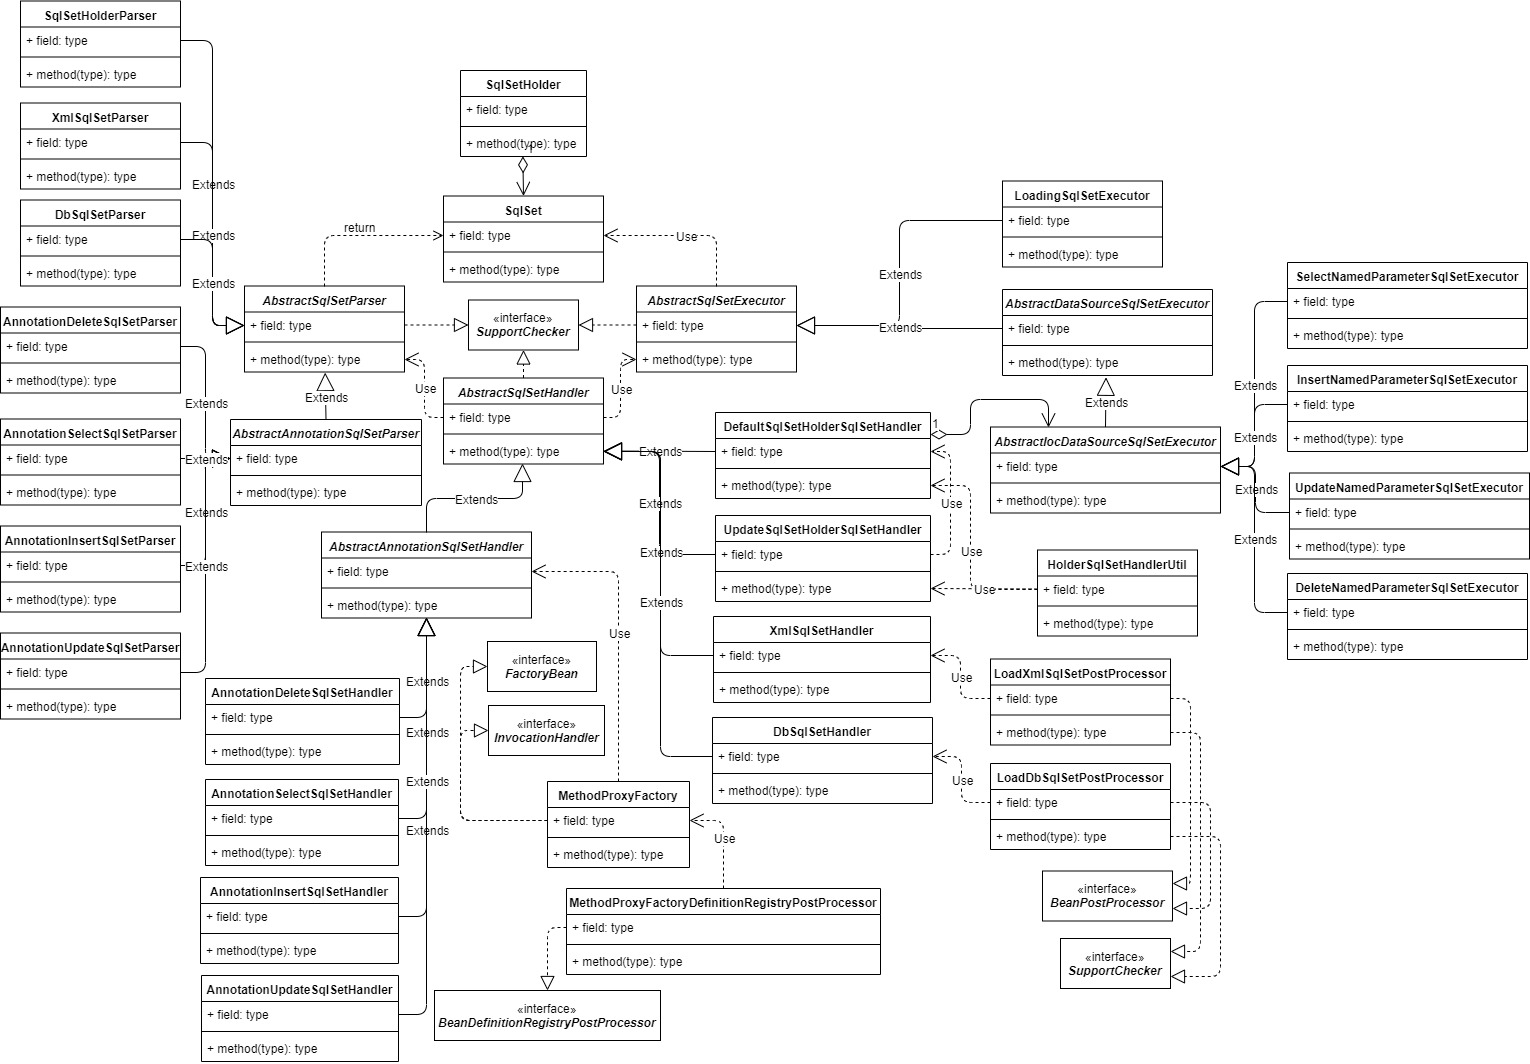
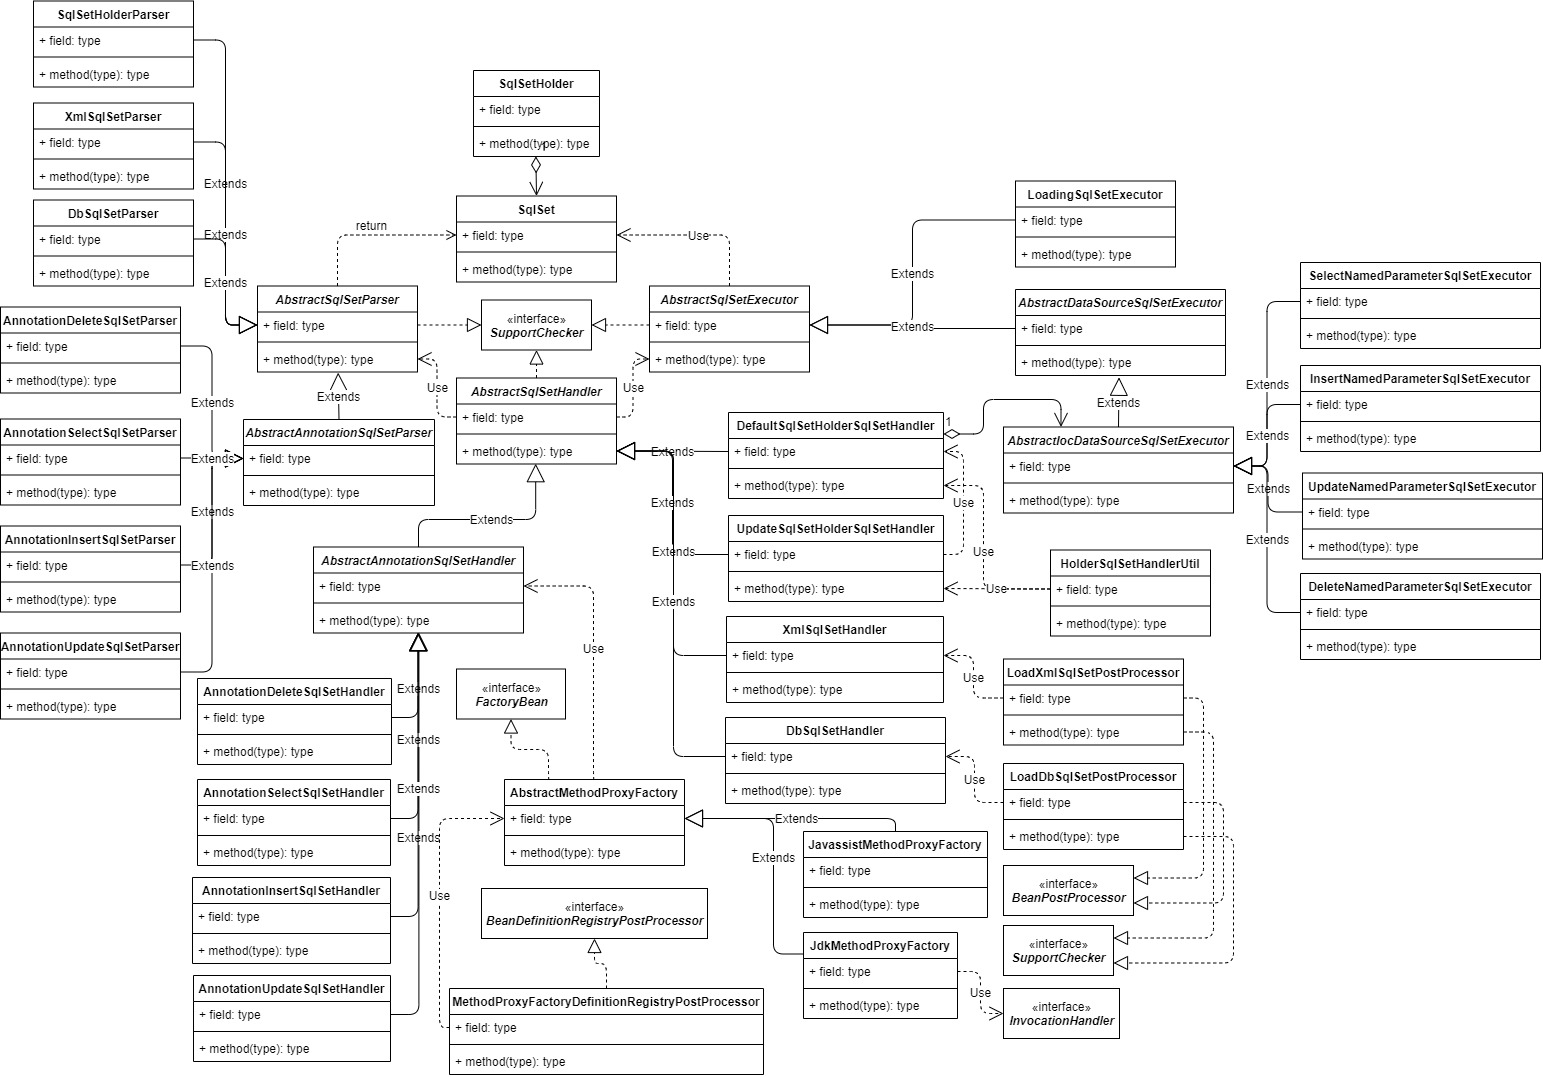
支持多种生成动态代理的配置

Changed region(s): [[0.0, 0.0, 1.0, 1.0], [0.215, 0.1861, 0.2458, 0.2171], [0.1229, 0.031, 0.1536, 0.062]]

diff --git a/src/main/java/org/walter/orm/processor/annotation/AbstractMethodProxyFactory.java b/src/main/java/org/walter/orm/processor/annotation/AbstractMethodProxyFactory.java
@@ -1,11 +1,14 @@
 package org.walter.orm.processor.annotation;
 
+import lombok.Setter;
 import lombok.extern.slf4j.Slf4j;
 import org.springframework.beans.BeansException;
 import org.springframework.beans.factory.FactoryBean;
 import org.springframework.context.ApplicationContext;
 import org.springframework.context.ApplicationContextAware;
+import org.walter.orm.core.common.SupportChecker;
 import org.walter.orm.handler.annotation.AbstractAnnotationSqlSetHandler;
+import org.walter.orm.processor.annotation.TargetInterface;
 import org.walter.orm.util.ApplicationContextHolder;
 
 import java.lang.annotation.*;
@@ -14,18 +17,12 @@ import java.lang.reflect.Method;
 import java.lang.reflect.Proxy;
 
 @Slf4j
-public class MethodProxyFactory implements FactoryBean, InvocationHandler, ApplicationContextAware {
-
+public abstract class AbstractMethodProxyFactory implements FactoryBean, ApplicationContextAware {
+    @Setter
     @TargetInterface
-    private Class<?> targetInterface;
+    protected Class<?> targetInterface;
 
     private ApplicationContext applicationContext;
-
-    @Override
-    public Object getObject() throws Exception {
-        Class<?>[] interfaces = new Class[]{targetInterface};
-        return Proxy.newProxyInstance(targetInterface.getClassLoader(), interfaces, this);
-    }
 
     @Override
     public Class<?> getObjectType() {
@@ -38,27 +35,15 @@ public class MethodProxyFactory implements FactoryBean, InvocationHandler, Appli
     }
 
     @Override
-    public Object invoke(Object proxy, Method method, Object[] args) {
-        AbstractAnnotationSqlSetHandler handler = applicationContext.getBeansOfType(AbstractAnnotationSqlSetHandler.class)
-                .values().stream().filter(h -> h.support(h.getClass(), method)).findFirst().get();
-
-        return handler.handle(targetInterface, method, args);
-    }
-
-    @SuppressWarnings("unused")
-    public void setTargetInterface(Class<?> targetInterface) {
-        this.targetInterface = targetInterface;
-    }
-
-    @Override
     public void setApplicationContext(ApplicationContext applicationContext) throws BeansException {
         this.applicationContext = applicationContext;
         ApplicationContextHolder.applicationContext = applicationContext;
     }
 
-    @Target(ElementType.FIELD)
-    @Retention(RetentionPolicy.RUNTIME)
-    @Documented
-    @Inherited
-    @interface TargetInterface{}
+    public Object invoke(Method method, Object[] args) {
+        AbstractAnnotationSqlSetHandler handler = applicationContext.getBeansOfType(AbstractAnnotationSqlSetHandler.class)
+                .values().stream().filter(h -> h.support(h.getClass(), method)).findFirst().get();
+
+        return handler.handle(targetInterface, method, args);
+    }
 }

diff --git a/src/main/java/org/walter/orm/processor/annotation/MethodProxyFactoryDefinitionRegistryPostProcessor.java b/src/main/java/org/walter/orm/processor/annotation/MethodProxyFactoryDefinitionRegistryPostProcessor.java
@@ -13,6 +13,7 @@ import org.springframework.beans.factory.support.BeanDefinitionBuilder;
 import org.springframework.beans.factory.support.BeanDefinitionRegistry;
 import org.springframework.beans.factory.support.BeanDefinitionRegistryPostProcessor;
 import org.walter.orm.annotation.SqlSet;
+import org.walter.orm.processor.annotation.proxy.JdkMethodProxyFactory;
 
 import java.io.IOException;
 import java.lang.reflect.Field;
@@ -23,14 +24,16 @@ import java.util.Set;
 public class MethodProxyFactoryDefinitionRegistryPostProcessor implements BeanDefinitionRegistryPostProcessor {
     @Setter
     private Set<String> scanPackages = Sets.newHashSet();
+    @Setter
+    private Class<? extends AbstractMethodProxyFactory> methodProxyFactoryClz = JdkMethodProxyFactory.class;
 
     @Override
     public void postProcessBeanDefinitionRegistry(BeanDefinitionRegistry registry) throws BeansException {
         this.listSqlSetInterfaces().forEach(interfaceClz -> {
             // 构造SqlSet接口对应的BeanDefinition
-            BeanDefinitionBuilder beanDefinitionBuilder = BeanDefinitionBuilder.genericBeanDefinition(MethodProxyFactory.class);
-            for (Field field : MethodProxyFactory.class.getDeclaredFields()) {
-                if(field.isAnnotationPresent(MethodProxyFactory.TargetInterface.class)){
+            BeanDefinitionBuilder beanDefinitionBuilder = BeanDefinitionBuilder.genericBeanDefinition(methodProxyFactoryClz);
+            for (Field field : AbstractMethodProxyFactory.class.getDeclaredFields()) {
+                if(field.isAnnotationPresent(TargetInterface.class)){
                     beanDefinitionBuilder.addPropertyValue(field.getName(), interfaceClz);
                 }
             }

diff --git a/src/main/java/org/walter/orm/processor/annotation/proxy/JdkMethodProxyFactory.java b/src/main/java/org/walter/orm/processor/annotation/proxy/JdkMethodProxyFactory.java
@@ -1,0 +1,24 @@
+package org.walter.orm.processor.annotation.proxy;
+
+import lombok.extern.slf4j.Slf4j;
+import org.springframework.beans.BeansException;
+import org.springframework.context.ApplicationContext;
+import org.springframework.context.ApplicationContextAware;
+import org.walter.orm.handler.annotation.AbstractAnnotationSqlSetHandler;
+import org.walter.orm.processor.annotation.AbstractMethodProxyFactory;
+import org.walter.orm.util.ApplicationContextHolder;
+
+import java.lang.reflect.InvocationHandler;
+import java.lang.reflect.Method;
+import java.lang.reflect.Proxy;
+
+@Slf4j
+public class JdkMethodProxyFactory extends AbstractMethodProxyFactory {
+
+    @Override
+    public Object getObject() {
+        Class<?>[] interfaces = new Class[]{super.targetInterface};
+        return Proxy.newProxyInstance(super.targetInterface.getClassLoader(), interfaces,
+                (proxy, method, args) -> super.invoke(method, args));
+    }
+}

diff --git a/src/main/java/org/walter/orm/processor/annotation/TargetInterface.java b/src/main/java/org/walter/orm/processor/annotation/TargetInterface.java
@@ -1,0 +1,10 @@
+package org.walter.orm.processor.annotation;
+
+import java.lang.annotation.*;
+
+@Target(ElementType.FIELD)
+@Retention(RetentionPolicy.RUNTIME)
+@Documented
+@Inherited
+@interface TargetInterface {
+}

diff --git a/README.md b/README.md
@@ -15,8 +15,8 @@
     <!--框架数据源，alias固定为infrastructureDataSource，用于数据表配置方式来进行ORM映射-->
     <alias alias="infrastructureDataSource" name="框架数据源的beanName"/>
 
-    <!--接口注解方式来进行ORM映射时自动扫描的package列表-->
     <bean class="org.walter.orm.processor.annotation.MethodProxyFactoryDefinitionRegistryPostProcessor">
+        <!--接口注解方式来进行ORM映射时自动扫描的package列表-->
         <property name="scanPackages">
             <set>
                 <value>扫描的包1</value>
@@ -24,6 +24,9 @@
                 <value>扫描的包N</value>
             </set>
         </property>
+
+        <!--动态代理的生成方式，默认使用Jdk动态代理工厂org.walter.orm.processor.annotation.proxy.JdkMethodProxyFactory-->
+        <property name="methodProxyFactoryClz" value="org.walter.orm.processor.annotation.proxy.JdkMethodProxyFactory"/>
     </bean>
 </beans>
 ```
@@ -34,7 +37,7 @@ create table `BASE_SQLSET` (
 	`sqlType` varchar (255) COMMENT 'select, update, insert, delete',
 	`dataSource` varchar (255) COMMENT '数据源的beanName',
 	`statement` blob COMMENT 'SQL语句'
-); 
+) ENGINE=INNODB DEFAULT CHARSET=utf8mb4; 
 ```
 * 为便于测试，在业务数据源中定义数据表DEPARTMENT，并添加一些数据:
 ```sql
